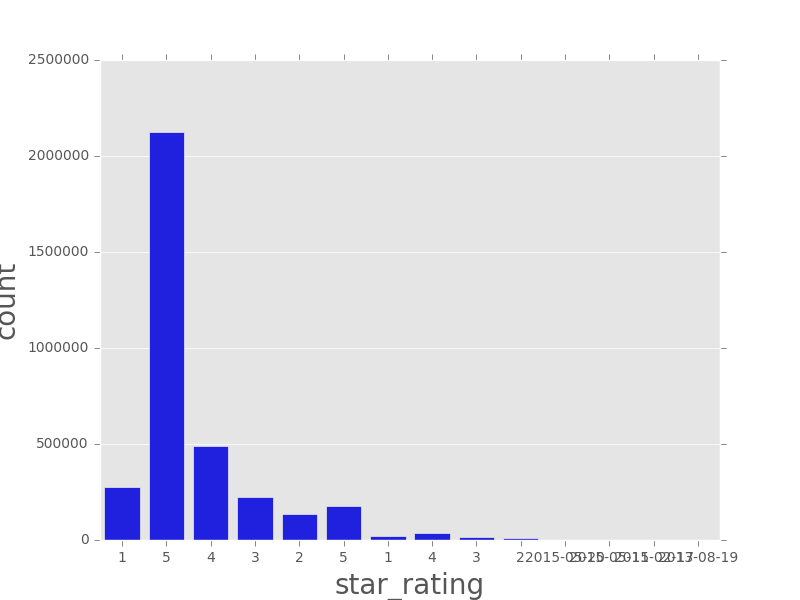
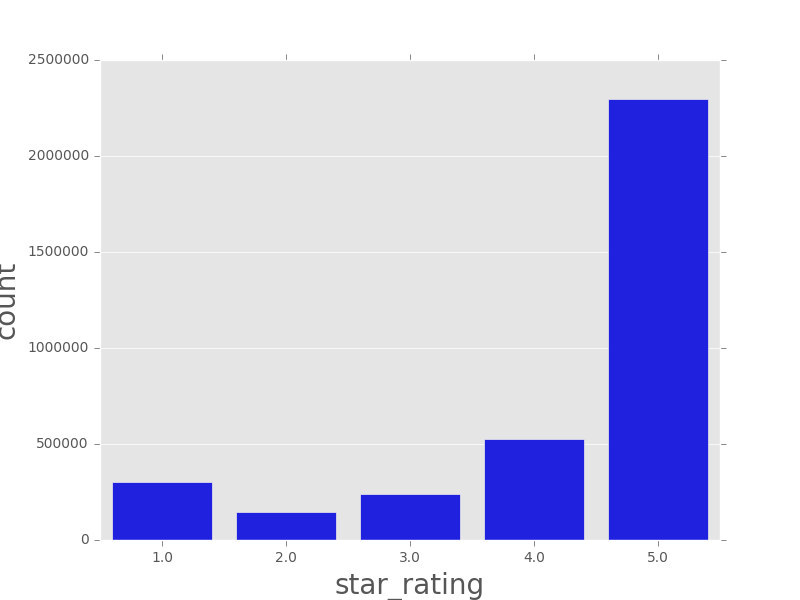
hope this fig is gud

Changed region(s): [[0.125, 0.15, 0.9062, 0.96], [0.1875, 0.9, 0.2188, 0.96]]

diff --git a/Data_prepro.py b/Data_prepro.py
@@ -39,13 +39,50 @@ else:
 print ('Original Length: ')
 print(len(cover))
 
-for index, row in cover.iterrows():
+#for index, row in cover.iterrows():
+#for index, row in cover.itertuples():
     #print(row)
-    if len(row)==15:
-        prepro = prepro.append(row)
+    #if len(row)==15:
+    #    prepro = prepro.append(row)
+
+cover = cover.dropna()
+print(len(cover))
+
+print(cover['star_rating'].dtypes)
+
+cover['star_rating'] = pd.to_numeric(cover['star_rating'], errors='coerce')
+cover = cover.dropna()
+
+#print(cover['star_rating'].dtype)
+
+prepro1 = cover.loc[lambda cover: cover['star_rating'] == 1]
+#prepro.append(prepro1)
+print(prepro1)
+
+prepro2 = cover.loc[lambda cover: cover['star_rating'] == 2]
+#prepro.append(prepro1)
+
+prepro3 = cover.loc[lambda cover: cover['star_rating'] == 3]
+#prepro.append(prepro1)
+
+prepro4 = cover.loc[lambda cover: cover['star_rating'] == 4]
+#prepro.append(prepro1)
+
+prepro5 = cover.loc[lambda cover: cover['star_rating'] == 5]
+#prepro.append(prepro1)
+
+#prepro = prepro1 + prepro2 + prepro3 + prepro4 + prepro5
+
+frames = [prepro1, prepro2, prepro3, prepro4, prepro5]
+prepro = pd.concat(frames)
+
+#print('PREPRO')
+#print(prepro)
+#) or (lambda cover: cover['star_rating'] == 2) (lambda cover: cover['star_rating'] == 3) or (lambda cover: cover['star_rating'] == 4), (lambda cover: cover['star_rating'] == 5)]
+
 
 print('Final Length: ')
-print(prepro)
+print(len(prepro))
 
 prepro.to_csv(path, sep='\t', index=False)
 

diff --git a/Hists_full.py b/Hists_full.py
@@ -18,7 +18,8 @@ file = raw_input("Input File Name: ")
 path = "/home/grant309/757Project/Figures/%s" % file
 print(path)
 
-cover = pd.read_csv('/home/grant309/757Project/Data/amazon_reviews_us_%s.tsv' % file, delimiter="\t" , error_bad_lines=False)
+#cover = pd.read_csv('/home/grant309/757Prject/Data/amazon_reviews_us_%s.tsv' % file, delimiter="\t" , error_bad_lines=False)
+cover = pd.read_csv('/home/grant309/757Project/DataPro/%s.tsv' % file, delimiter="\t", error_bad_lines=False)
 
 folder = file
 
